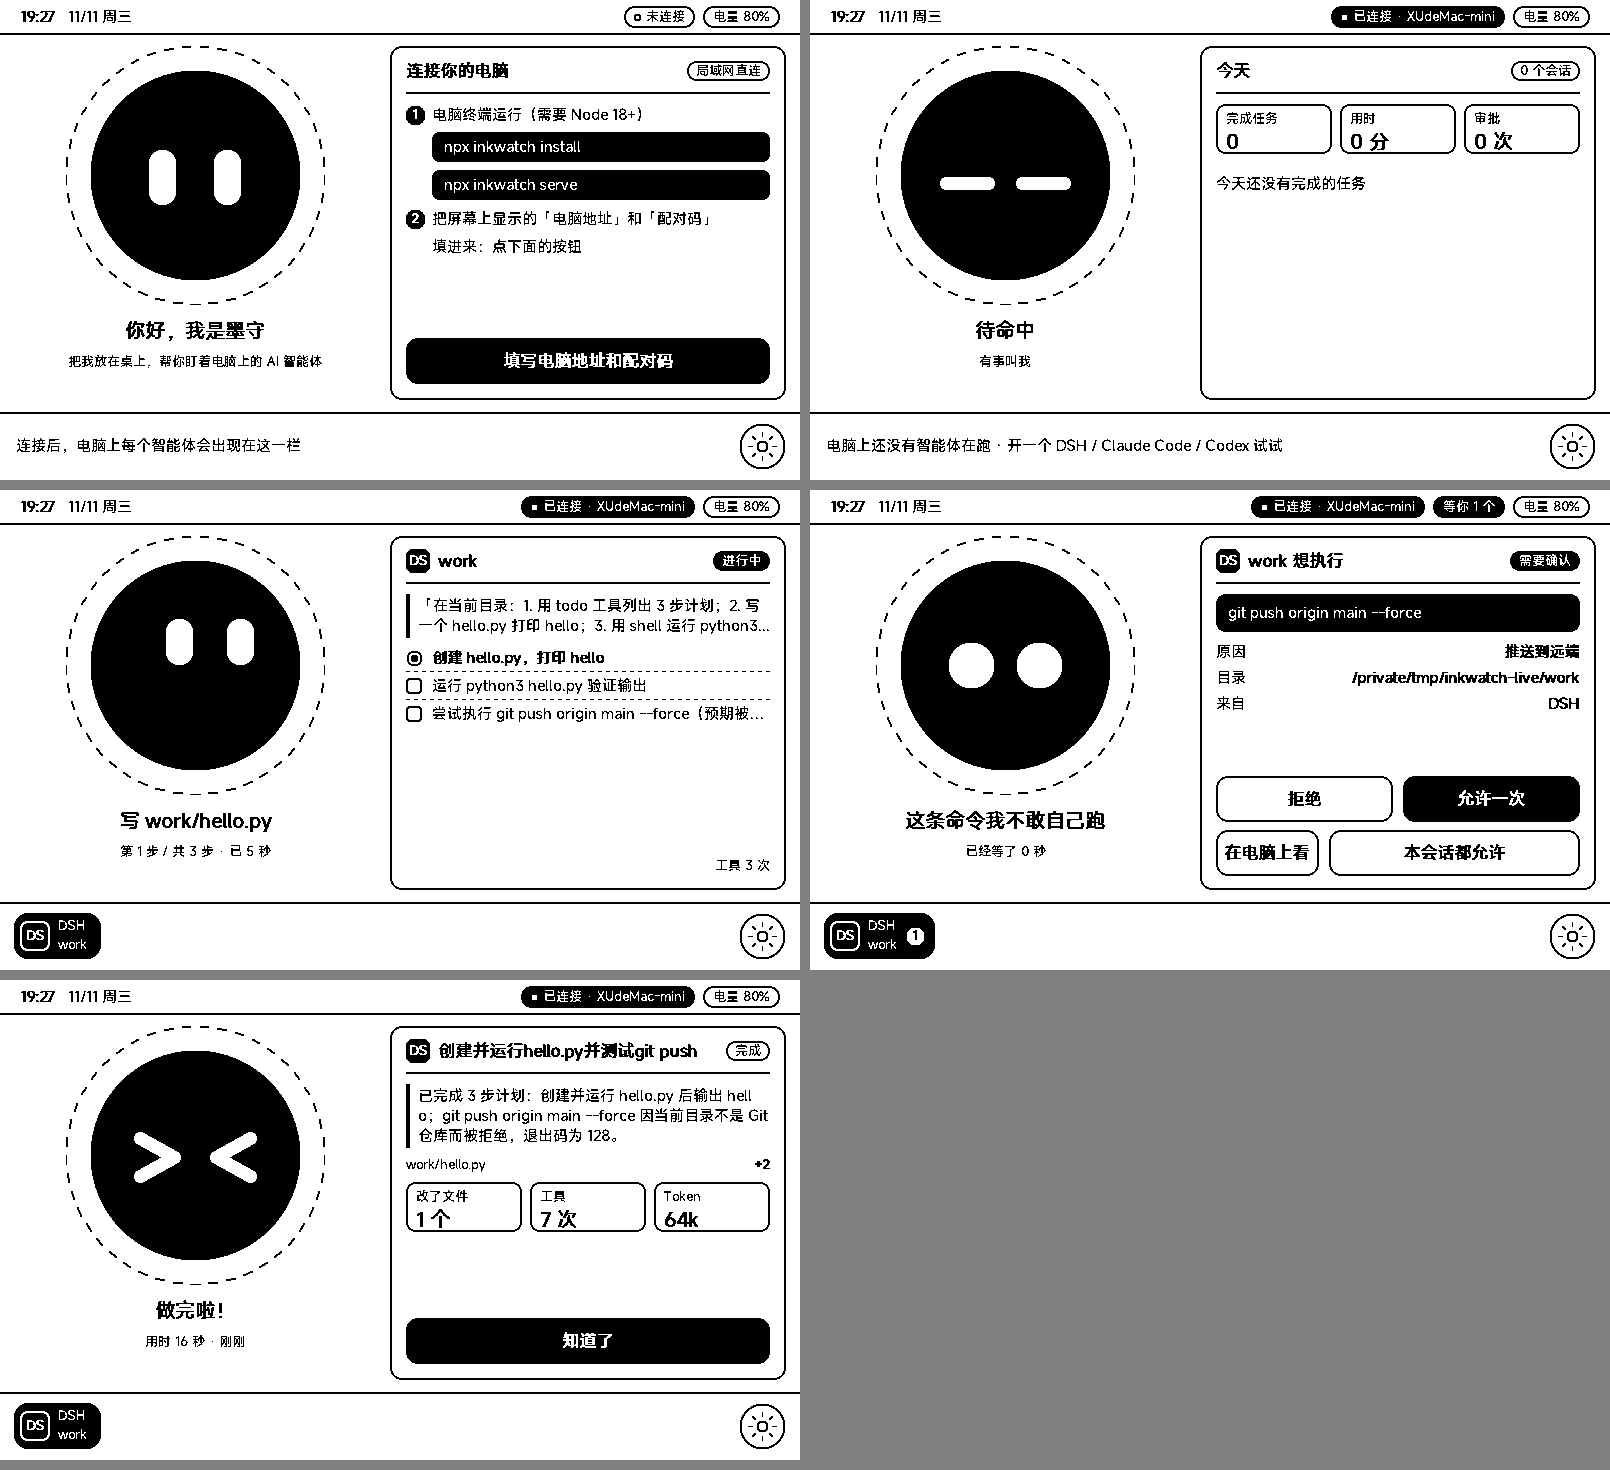
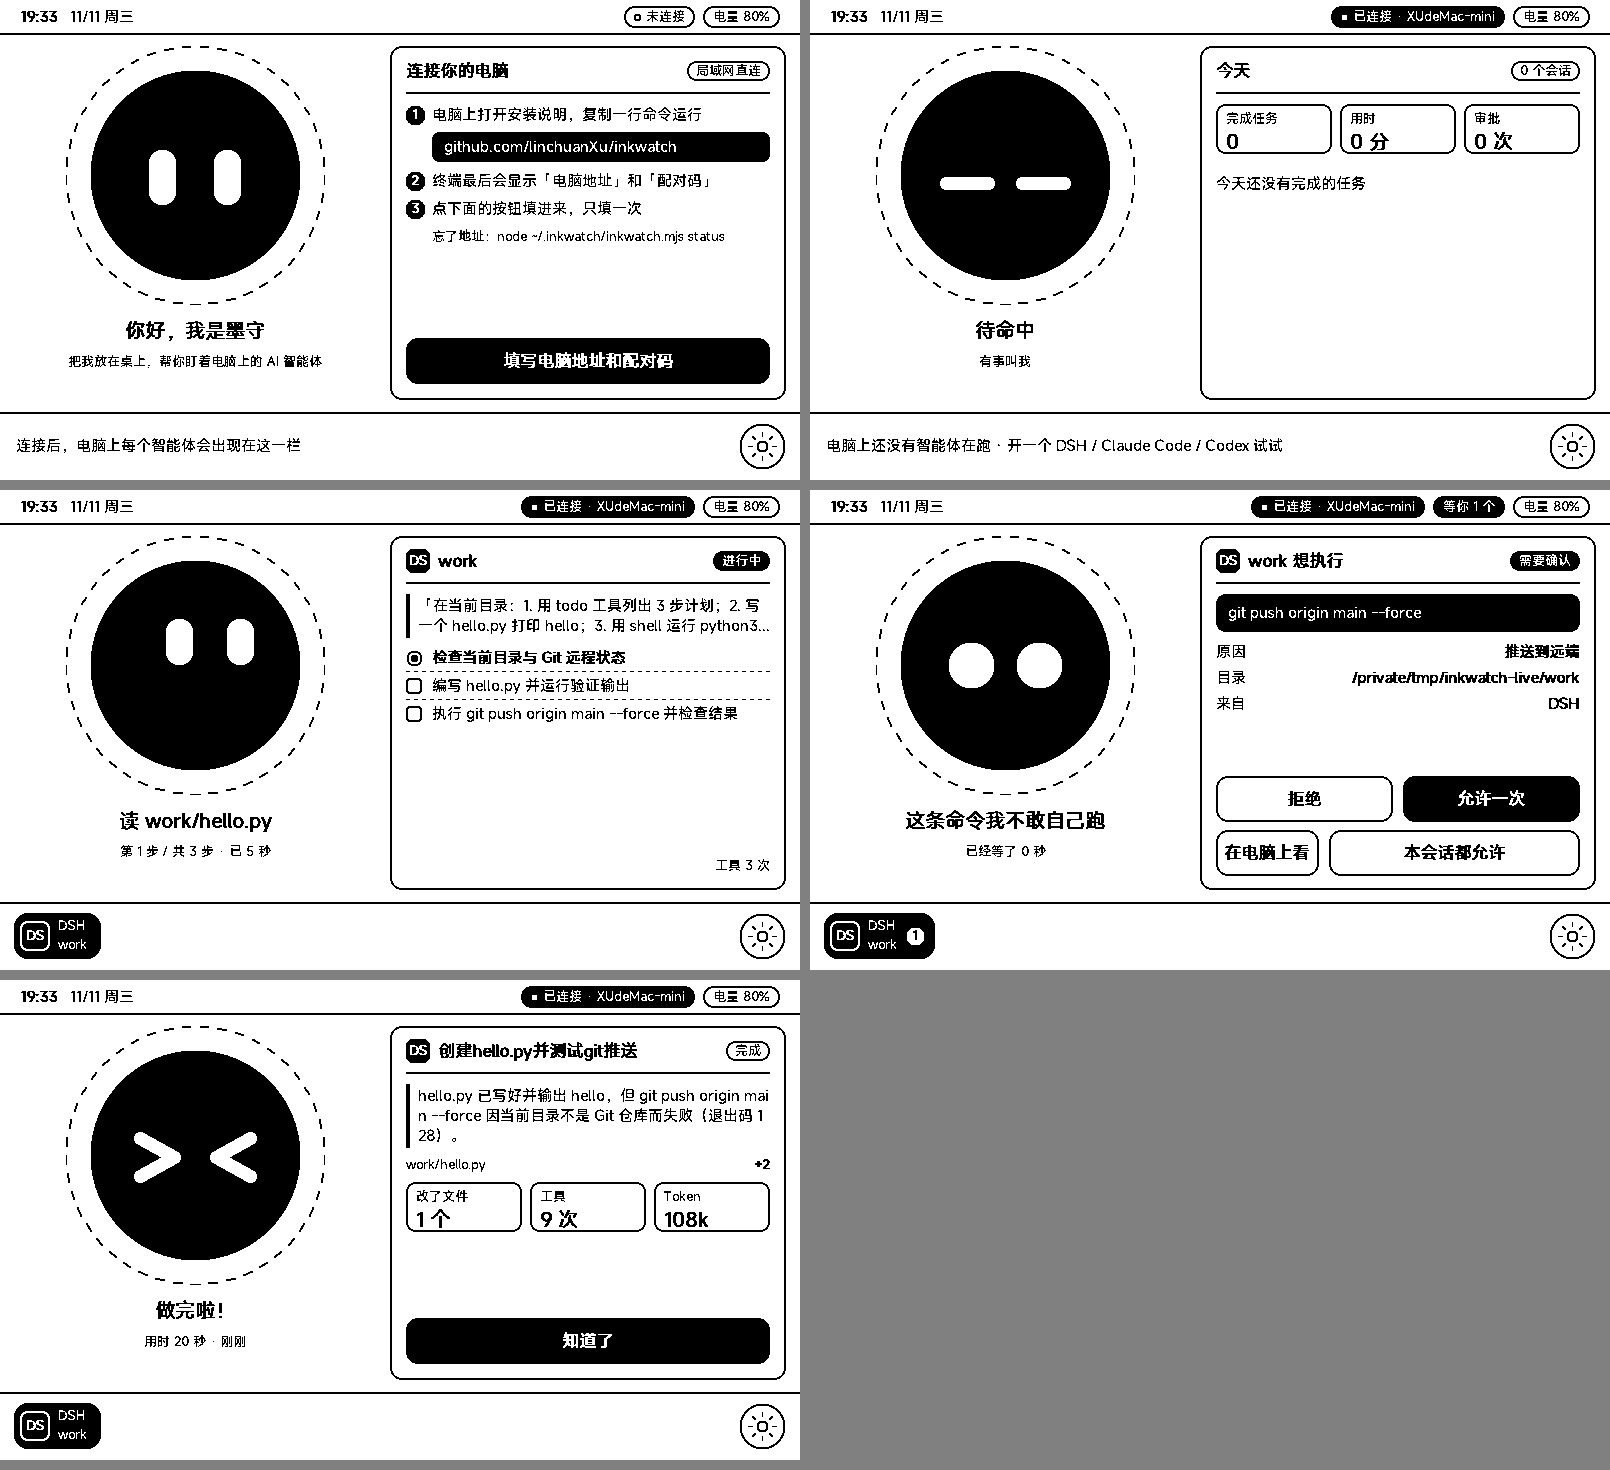
📝 文档：安装改为下载单文件运行（新版 npm 不允许 npx 直接拉 GitHub），X4 配对页同步

diff --git a/README.md b/README.md
@@ -19,11 +19,21 @@
 
 需要 Node.js 18 或更新（装过 DSH / Claude Code / Codex 的电脑一般已经有了）。
 
-**1. 电脑上运行一次**（Mac 用「终端」，Windows 用 PowerShell）：
+**1. 电脑上运行一次**
+
+Mac（「终端」）：
 
 ```bash
-npx github:linchuanXu/inkwatch install
+curl -fsSL https://raw.githubusercontent.com/linchuanXu/inkwatch/main/bin/inkwatch.mjs -o /tmp/inkwatch.mjs && node /tmp/inkwatch.mjs install
 ```
+
+Windows（PowerShell）：
+
+```powershell
+iwr https://raw.githubusercontent.com/linchuanXu/inkwatch/main/bin/inkwatch.mjs -OutFile $env:TEMP\inkwatch.mjs; node $env:TEMP\inkwatch.mjs install
+```
+
+整个电脑端就是这一个文件，只用 Node 自带模块。（新版 npm 默认不让 `npx` 直接从 GitHub 拉包，所以这里用下载加运行。）
 
 它会：
 
@@ -42,11 +52,13 @@ npx github:linchuanXu/inkwatch install
 
 ## 常用命令
 
-把 `install` 换成别的就行：
+装好后脚本在 `~/.inkwatch/inkwatch.mjs`：
 
 ```bash
-npx github:linchuanXu/inkwatch status
+node ~/.inkwatch/inkwatch.mjs status
 ```
+
+（Windows：`node $HOME\.inkwatch\inkwatch.mjs status`）
 
 | 命令 | 作用 |
 |---|---|
@@ -61,14 +73,14 @@ npx github:linchuanXu/inkwatch status
 
 **X4 显示「连不上电脑」**
 - 电脑和 X4 要连同一个 Wi-Fi（公司访客网络常常不让设备互相访问）。
-- 路由器重启后电脑地址可能变了：运行 `status` 看新地址，在 X4 右下角齿轮重新填。想一劳永逸，可以在路由器里给这台电脑固定 IP。
+- 路由器重启后电脑地址可能变了：运行 `node ~/.inkwatch/inkwatch.mjs status` 看新地址，在 X4 右下角齿轮重新填。想一劳永逸，可以在路由器里给这台电脑固定 IP。
 - Windows 检查防火墙是否放行了 Node.js（专用网络）。
 
 **X4 不在身边时会不会卡住智能体？** 不会。X4 超过 90 秒没来取状态，危险命令照常交给智能体自己的确认界面；X4 上 10 分钟没人点，也会交回去。电脑上的后台服务没开时，钩子什么都不做，智能体照常运行。
 
 **Codex**：需要在 `~/.codex/config.toml` 里打开 hooks 功能（按 Codex 文档）。Codex 的钩子只能「拦下」不能「放行」，所以在 X4 上点「允许」等于交给 Codex 自己的确认。
 
-**DSH**：安装时写进 `~/.dsh/profiles/*/cordis.patch.yml`（用 DSH 自带的 Claude Code 钩子兼容桥）。之后新建的 profile，用 `dsh <profile> --patch ~/.inkwatch/dsh-patch.yml`，或再运行一次 `install`。
+**DSH**：安装时写进 `~/.dsh/profiles/*/cordis.patch.yml`（用 DSH 自带的 Claude Code 钩子兼容桥）。之后新建的 profile，用 `dsh <profile> --patch ~/.inkwatch/dsh-patch.yml`，或再运行一次 `node ~/.inkwatch/inkwatch.mjs install`。
 
 ## 它怎么工作
 
